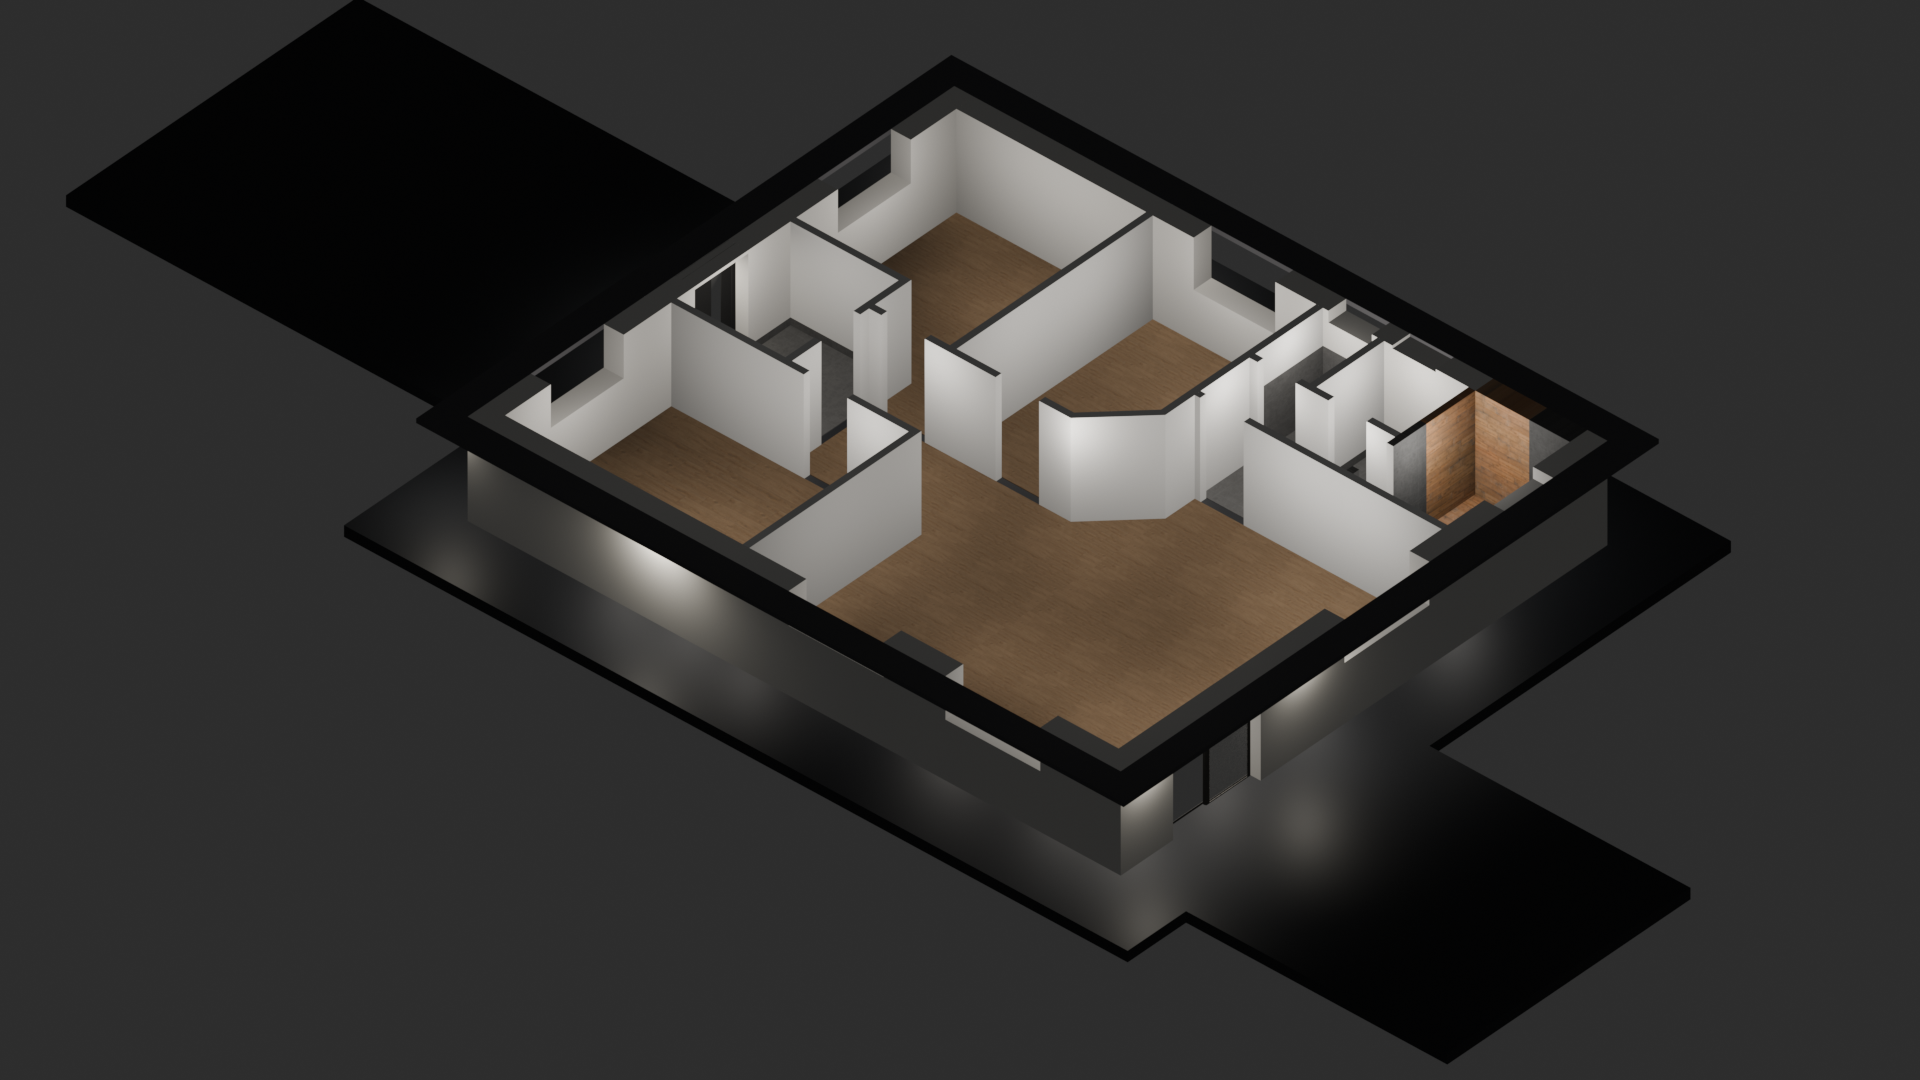
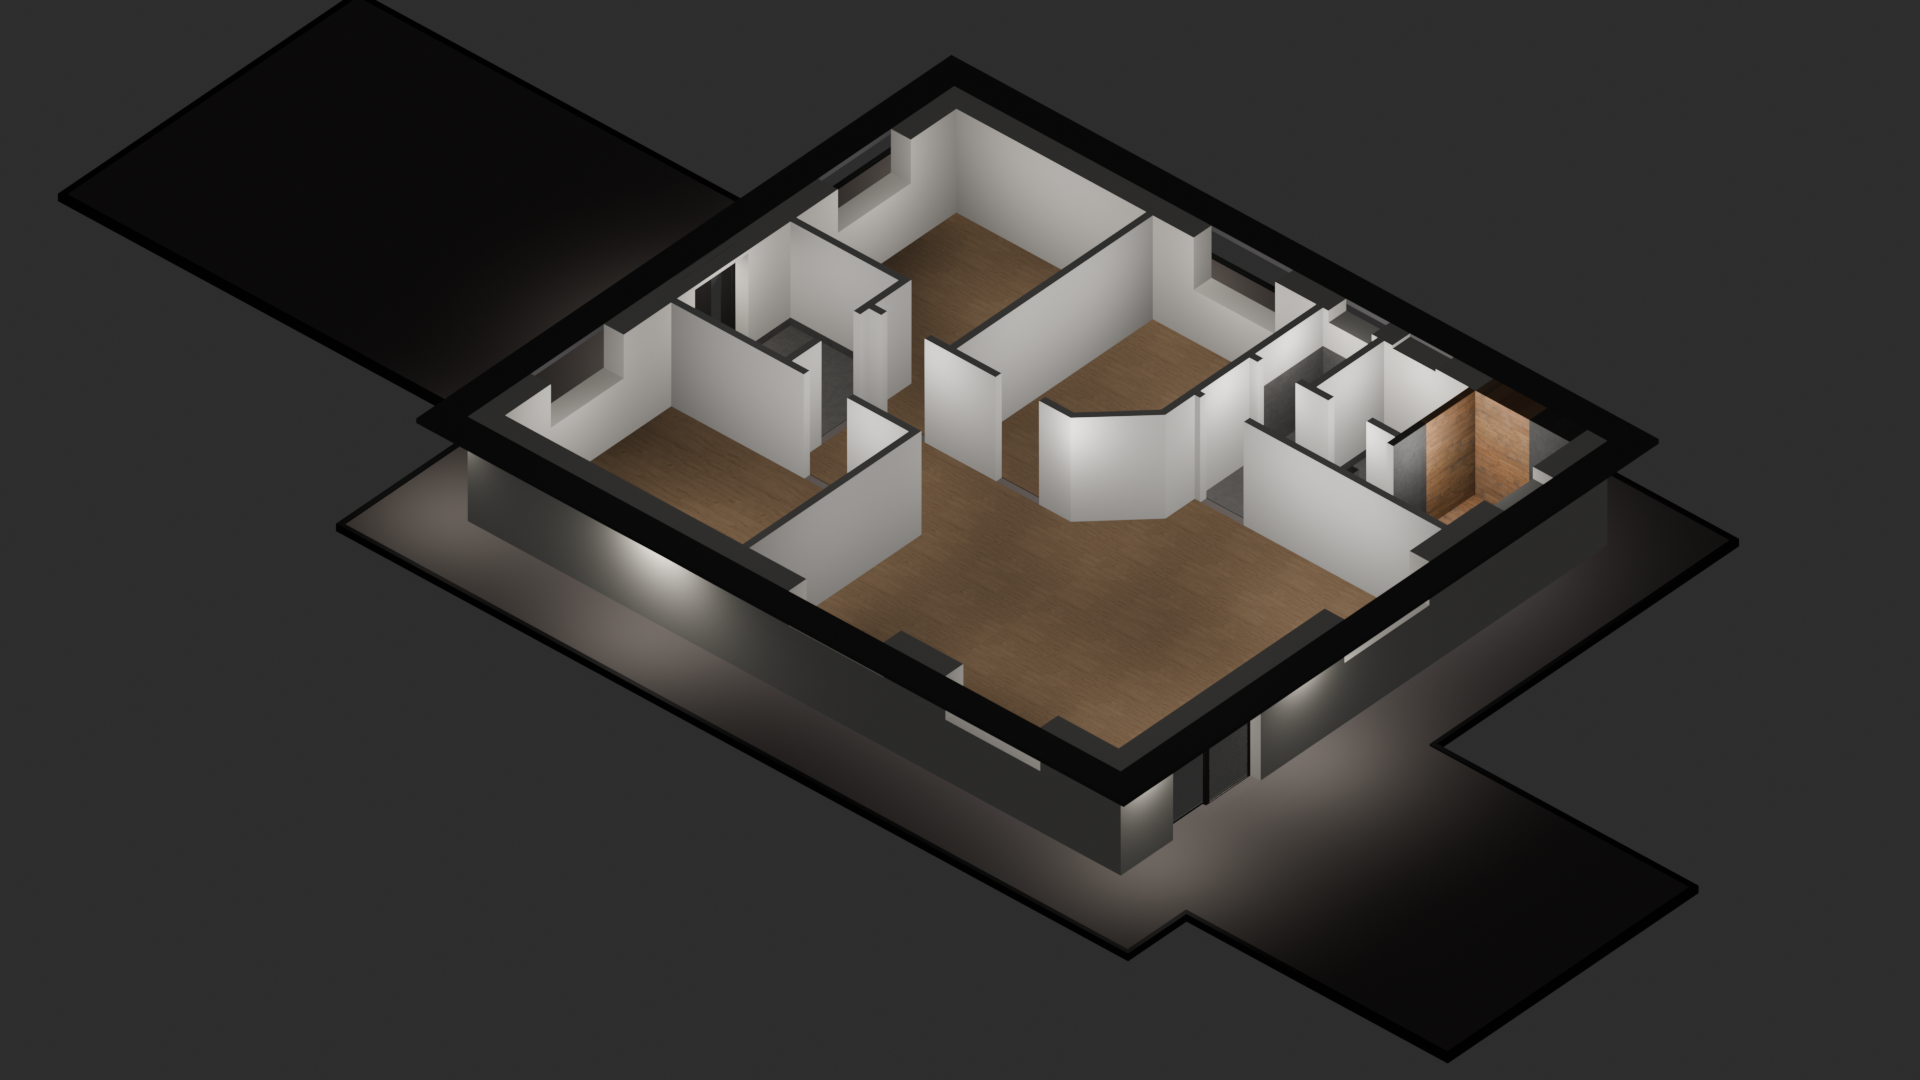
feat: realistic 8cm paving slab with Solidify and raised garden curbs

diff --git a/update_paving_curbs.py b/update_paving_curbs.py
@@ -1,0 +1,270 @@
+"""
+update_paving_curbs.py
+======================
+Updates the outdoor paving and adds realistic concrete garden curbs:
+1. Configures 'Foundation_Slab' with realistic paver thickness using a Solidify modifier:
+   - 2D all-quad rectilinear surface at Z = 0.000 m.
+   - Solidify modifier: thickness = 0.08 m (8 cm), offset = -1.0 (downwards to Z = -0.08 m).
+   - Preserves user material 'Stone ground tile'.
+2. Generates 'Garden_Curbs' (Zahradní obrubníky) framing all exterior perimeter edges:
+   - Follows the 12 rectilinear boundary segments of the paved area.
+   - Width = 0.08 m (8 cm).
+   - Height = raised +0.035 m (3.5 cm) above paving level Z = 0.000 m (Z in [-0.100, +0.035] m).
+   - Beautiful 5 mm bevel on top edges for realistic specular highlights.
+   - Dedicated dark anthracite concrete material 'Mat_Garden_Curb' (#1A1B1D, roughness 0.65).
+   - Casts crisp contact shadows onto the paving and naturally frames the diorama.
+3. Renders verification views (isometric zoom, terrace view, driveway view, full overview).
+"""
+
+import os
+import sys
+import math
+import bpy
+import bmesh
+from mathutils import Vector, Matrix
+
+def hex_to_linear(hex_str):
+    hex_str = hex_str.lstrip('#')
+    r, g, b = [int(hex_str[i:i+2], 16) / 255.0 for i in (0, 2, 4)]
+    to_lin = lambda c: c / 12.92 if c <= 0.04045 else ((c + 0.055) / 1.055) ** 2.4
+    return (to_lin(r), to_lin(g), to_lin(b), 1.0)
+
+def main():
+    blend_path = os.path.abspath("dum_pudorys.blend")
+    print(f"Opening: {blend_path}")
+    bpy.ops.wm.open_mainfile(filepath=blend_path)
+
+    # ----------------------------------------------------
+    # 1. Update Foundation_Slab with Solidify modifier (8 cm thickness)
+    # ----------------------------------------------------
+    slab_obj = bpy.data.objects.get("Foundation_Slab")
+    if not slab_obj:
+        raise RuntimeError("Object 'Foundation_Slab' not found!")
+
+    # Preserve existing material
+    existing_mat = slab_obj.data.materials[0] if slab_obj.data.materials else None
+
+    # Unified grid cuts from update_slab.py
+    x_cuts = [-1.2, 2.19, 5.0, 8.19, 10.0, 11.2]
+    y_cuts = [-9.0, -1.2, 0.0, 12.0, 13.2, 18.0]
+
+    active_cells = []
+    active_cells.extend([(1, 0), (2, 0)]) # Driveway
+    for r in [1, 2, 3]:
+        for c in range(5):
+            active_cells.append((c, r))   # Walkway + House base
+    active_cells.extend([(2, 4), (3, 4)]) # Terrace
+
+    # Build clean 2D quad mesh at Z = 0.000 m directly into slab_obj.data
+    bm_slab = bmesh.new()
+
+    v_cache = {}
+    def get_slab_vert(c, r):
+        key = (c, r)
+        if key not in v_cache:
+            v_cache[key] = bm_slab.verts.new((x_cuts[c], y_cuts[r], 0.000))
+        return v_cache[key]
+
+    for c, r in active_cells:
+        v_sw = get_slab_vert(c, r)
+        v_se = get_slab_vert(c+1, r)
+        v_ne = get_slab_vert(c+1, r+1)
+        v_nw = get_slab_vert(c, r+1)
+        bm_slab.faces.new([v_sw, v_se, v_ne, v_nw])
+
+    bmesh.ops.recalc_face_normals(bm_slab, faces=bm_slab.faces)
+    slab_obj.data.clear_geometry()
+    bm_slab.to_mesh(slab_obj.data)
+    bm_slab.free()
+    slab_obj.data.update()
+
+    if existing_mat and (not slab_obj.data.materials or slab_obj.data.materials[0] != existing_mat):
+        slab_obj.data.materials.clear()
+        slab_obj.data.materials.append(existing_mat)
+
+    # Configure Solidify modifier on Foundation_Slab (8 cm real paver thickness)
+    slab_obj.modifiers.clear()
+    mod_solid = slab_obj.modifiers.new(name="Solidify_Paving", type='SOLIDIFY')
+    mod_solid.thickness = 0.08  # 8 cm thickness (range 6-10 cm per user request)
+    mod_solid.offset = -1.0     # Downwards to Z = -0.08 m so top remains at Z = 0.00 m
+    mod_solid.use_even_offset = True
+    mod_solid.use_rim = True
+    mod_solid.use_rim_only = False
+    print("[OK] Foundation_Slab configured with Solidify modifier (thickness = 8 cm, offset = -1.0).")
+
+    # ----------------------------------------------------
+    # 2. Material for Garden Curbs: Mat_Garden_Curb
+    # ----------------------------------------------------
+    mat_curb_name = "Mat_Garden_Curb"
+    mat_curb = bpy.data.materials.get(mat_curb_name)
+    if not mat_curb:
+        mat_curb = bpy.data.materials.new(name=mat_curb_name)
+    if mat_curb.node_tree is None and hasattr(mat_curb, "use_nodes"):
+        mat_curb.use_nodes = True
+    bsdf = mat_curb.node_tree.nodes.get("Principled BSDF")
+    if bsdf:
+        # Dark anthracite concrete (#1A1B1D)
+        bsdf.inputs["Base Color"].default_value = hex_to_linear("1A1B1D")
+        bsdf.inputs["Roughness"].default_value = 0.65
+        if "Specular IOR Level" in bsdf.inputs:
+            bsdf.inputs["Specular IOR Level"].default_value = 0.20
+        elif "Specular" in bsdf.inputs:
+            bsdf.inputs["Specular"].default_value = 0.20
+
+    # ----------------------------------------------------
+    # 3. Construct Garden Curbs (Zahradní obrubníky)
+    # ----------------------------------------------------
+    curb_obj_name = "Garden_Curbs"
+    if curb_obj_name in bpy.data.objects:
+        bpy.data.objects.remove(bpy.data.objects[curb_obj_name], do_unlink=True)
+    if curb_obj_name in bpy.data.meshes:
+        bpy.data.meshes.remove(bpy.data.meshes[curb_obj_name])
+
+    curb_mesh = bpy.data.meshes.new(curb_obj_name)
+    bm_curb = bmesh.new()
+
+    # 12 boundary vertices of the paving in CCW order
+    inner_pts = [
+        (2.19, -9.00), (8.19, -9.00), (8.19, -1.20), (11.20, -1.20),
+        (11.20, 13.20), (10.00, 13.20), (10.00, 18.00), (5.00, 18.00),
+        (5.00, 13.20), (-1.20, 13.20), (-1.20, -1.20), (2.19, -1.20)
+    ]
+    n = len(inner_pts)
+    w_curb = 0.08  # 8 cm curb width
+
+    # Calculate exact orthogonal corner miter points
+    edge_normals = []
+    for i in range(n):
+        p0 = inner_pts[i]
+        p1 = inner_pts[(i + 1) % n]
+        dx = p1[0] - p0[0]
+        dy = p1[1] - p0[1]
+        L = math.hypot(dx, dy)
+        ux, uy = dx / L, dy / L
+        # Right-hand normal for CCW polygon: outward normal pointing away from paving
+        edge_normals.append((uy, -ux))
+
+    outer_pts = []
+    for i in range(n):
+        n_prev = edge_normals[(i - 1) % n]
+        n_curr = edge_normals[i]
+        ox = w_curb * (n_prev[0] + n_curr[0])
+        oy = w_curb * (n_prev[1] + n_curr[1])
+        outer_pts.append((inner_pts[i][0] + ox, inner_pts[i][1] + oy))
+
+    z_curb_top = 0.035  # Raised 3.5 cm above paving Z = 0.000 m (range 2-5 cm per user request)
+    z_paving = 0.000    # Paving surface level
+    z_curb_bot = -0.100 # Embedded 2 cm below paver bottom Z = -0.08 m
+
+    # Create vertices for curb ring
+    v_in_top = [bm_curb.verts.new((x, y, z_curb_top)) for x, y in inner_pts]
+    v_in_pav = [bm_curb.verts.new((x, y, z_paving))   for x, y in inner_pts]
+    v_in_bot = [bm_curb.verts.new((x, y, z_curb_bot)) for x, y in inner_pts]
+
+    v_out_top = [bm_curb.verts.new((x, y, z_curb_top)) for x, y in outer_pts]
+    v_out_bot = [bm_curb.verts.new((x, y, z_curb_bot)) for x, y in outer_pts]
+
+    for i in range(n):
+        i_next = (i + 1) % n
+
+        # 1. Top horizontal face (Z = +0.035 m, width = 8 cm, normal +Z upwards)
+        bm_curb.faces.new([v_in_top[i], v_in_top[i_next], v_out_top[i_next], v_out_top[i]])
+
+        # 2. Exposed inner vertical face (from Z = +0.035 m to Z = 0.000 m, height = 3.5 cm, casts shadow on paving)
+        bm_curb.faces.new([v_in_top[i_next], v_in_top[i], v_in_pav[i], v_in_pav[i_next]])
+
+        # 3. Sub-paving inner vertical face (from Z = 0.000 m to Z = -0.100 m, meets paver slab side)
+        bm_curb.faces.new([v_in_pav[i_next], v_in_pav[i], v_in_bot[i], v_in_bot[i_next]])
+
+        # 4. Outer vertical face (from Z = +0.035 m to Z = -0.100 m, height = 13.5 cm)
+        bm_curb.faces.new([v_out_top[i], v_out_top[i_next], v_out_bot[i_next], v_out_bot[i]])
+
+        # 5. Bottom horizontal face (Z = -0.100 m)
+        bm_curb.faces.new([v_out_bot[i], v_out_bot[i_next], v_in_bot[i_next], v_in_bot[i]])
+
+    bmesh.ops.recalc_face_normals(bm_curb, faces=bm_curb.faces)
+    bm_curb.to_mesh(curb_mesh)
+    bm_curb.free()
+
+    curb_obj = bpy.data.objects.new(curb_obj_name, curb_mesh)
+    bpy.context.scene.collection.objects.link(curb_obj)
+    curb_obj.data.materials.append(mat_curb)
+
+    # Add Bevel modifier for realistic concrete chamfer highlights
+    mod_bevel = curb_obj.modifiers.new(name="Bevel_Edge", type='BEVEL')
+    mod_bevel.width = 0.005  # 5 mm bevel
+    mod_bevel.segments = 2
+    mod_bevel.limit_method = 'ANGLE'
+    mod_bevel.angle_limit = math.radians(40)
+
+    print(f"[OK] Garden_Curbs created with 12 rectilinear segments, height Z in [-0.100, +0.035] m.")
+
+    # Preserve Isometric_Camera
+    iso_cam = bpy.data.objects.get("Isometric_Camera")
+    if iso_cam:
+        bpy.context.scene.camera = iso_cam
+
+    # Save blend file
+    bpy.ops.wm.save_mainfile()
+    print(f"[OK] Saved '{blend_path}'.")
+
+    # Render verification views
+    render_curb_views(iso_cam)
+
+def render_curb_views(iso_cam):
+    scene = bpy.context.scene
+    scene.render.image_settings.file_format = 'PNG'
+
+    # View 1: Isometric close-up of terrace and garden curb showing the raised lip and cast shadow
+    cam1_data = bpy.data.cameras.new("Cam_Curbs_IsoZoom")
+    cam1 = bpy.data.objects.new("Cam_Curbs_IsoZoom", cam1_data)
+    scene.collection.objects.link(cam1)
+    cam1.location = Vector((3.5, 14.5, 3.8))
+    cam1.rotation_euler = (Vector((7.5, 15.5, 0.0)) - cam1.location).to_track_quat('-Z', 'Y').to_euler()
+    cam1_data.type = 'PERSP'
+    cam1_data.lens = 40
+    scene.camera = cam1
+    scene.render.resolution_x = 1280
+    scene.render.resolution_y = 960
+    scene.render.filepath = os.path.abspath("curbs_terrace_view.png")
+    bpy.ops.render.render(write_still=True)
+    print("Rendered: curbs_terrace_view.png")
+
+    # View 2: Driveway close-up showing curbs along the driveway edges and corner miters
+    cam2_data = bpy.data.cameras.new("Cam_Curbs_Driveway")
+    cam2 = bpy.data.objects.new("Cam_Curbs_Driveway", cam2_data)
+    scene.collection.objects.link(cam2)
+    cam2.location = Vector((0.5, -6.0, 3.5))
+    cam2.rotation_euler = (Vector((5.19, -4.5, 0.0)) - cam2.location).to_track_quat('-Z', 'Y').to_euler()
+    cam2_data.type = 'PERSP'
+    cam2_data.lens = 38
+    scene.camera = cam2
+    scene.render.resolution_x = 1280
+    scene.render.resolution_y = 960
+    scene.render.filepath = os.path.abspath("curbs_driveway_view.png")
+    bpy.ops.render.render(write_still=True)
+    print("Rendered: curbs_driveway_view.png")
+
+    # View 3: Full floor plan overview using user's Isometric_Camera
+    if iso_cam:
+        scene.camera = iso_cam
+        scene.render.resolution_x = 1920
+        scene.render.resolution_y = 1080
+        scene.render.filepath = os.path.abspath("dum_pudorys_overview.png")
+        bpy.ops.render.render(write_still=True)
+        print("Rendered: dum_pudorys_overview.png")
+
+    # Clean up temporary cameras
+    for c in [cam1, cam2]:
+        bpy.data.objects.remove(c, do_unlink=True)
+    for cd in [cam1_data, cam2_data]:
+        bpy.data.cameras.remove(cd)
+
+    if iso_cam:
+        scene.camera = iso_cam
+
+    bpy.ops.wm.save_mainfile()
+    print("Cleaned up temporary cameras and resaved main blend file.")
+
+if __name__ == "__main__":
+    main()
